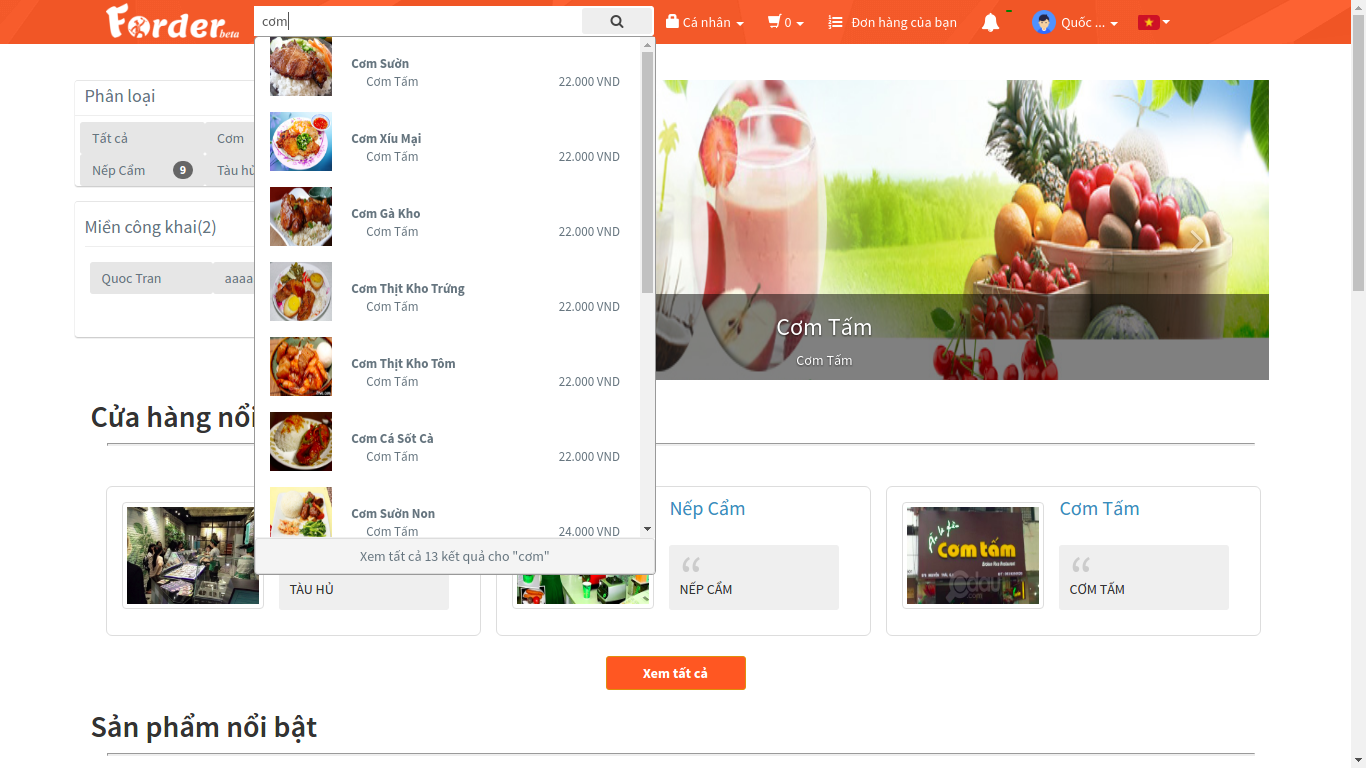
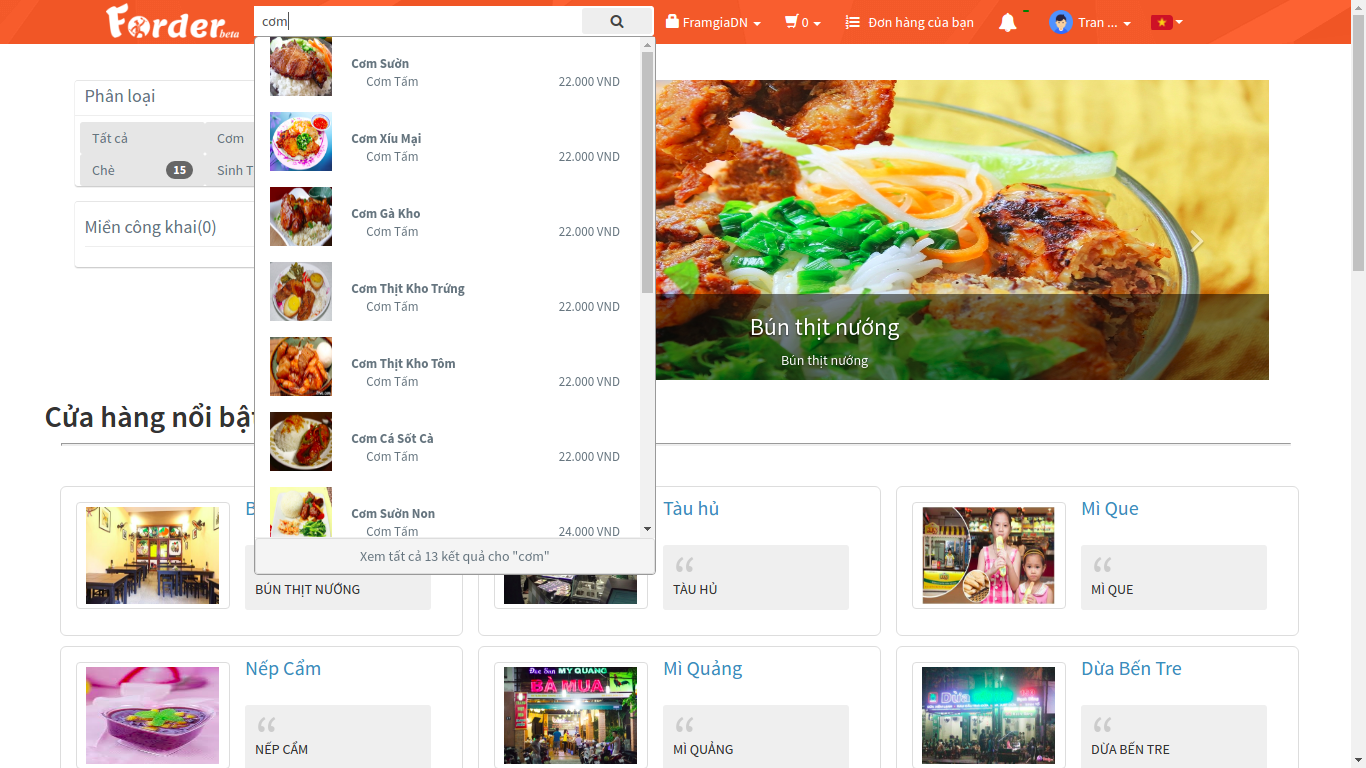
fix bug v5

diff --git a/app/controllers/domains_controller.rb b/app/controllers/domains_controller.rb
@@ -18,6 +18,7 @@ class DomainsController < ApplicationController
     @categories = Category.all
     @tags = ActsAsTaggableOn::Tag.all
     @shops = Shop.shop_in_domain(@domain.id).top_shops.decorate
+    @shops_slide = Shop.shop_in_domain(@domain.id)
     @products = @domain.products.top_products
     session[:domain_id] = @domain.id
     create_cart
